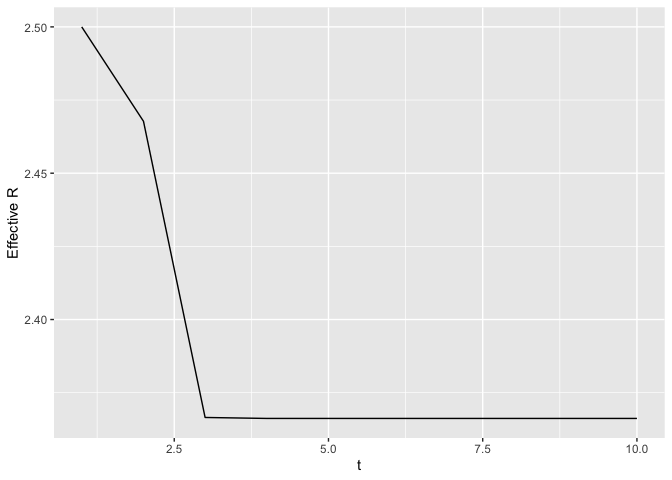
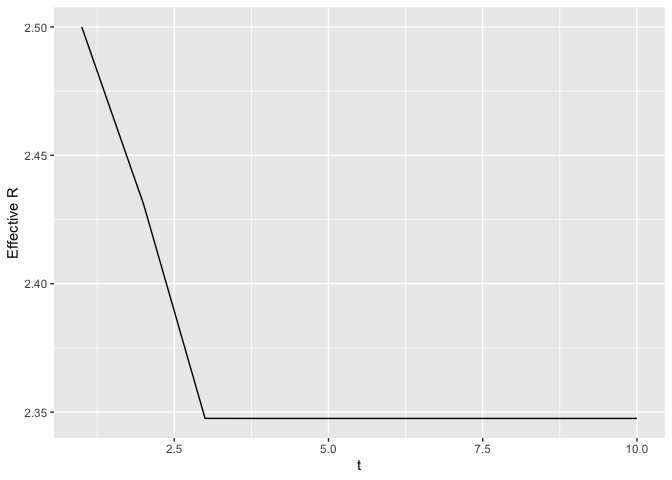
Update readme with new location

diff --git a/README.md b/README.md
@@ -15,7 +15,7 @@ proportions for the test-trace-isolate process.
 You can install the development version of tti from GitHub with:
 
 ``` r
-devtools::install_github("HopkinsIDD/covid_test_isolate/tti")
+devtools::install_github("HopkinsIDD/tti")
 ```
 
 ## Example
@@ -35,9 +35,9 @@ pqc <- get_pqc_equilibrium(init = c(Ps = 0, Pa = 0, Qcps = 0, Qhps = 0,
                              Ca = 0.2))
 pqc
 #>           Ps           Pa         Qcps         Qhps         Qcpa         Qhpa 
-#> 0.0766843185 0.0095855398 0.0077738286 0.0310953145 0.0004858643 0.0019434572 
+#> 7.724739e-02 9.655923e-03 6.475167e-03 2.590067e-02 4.046979e-04 1.618792e-03 
 #>           Qq           Cs           Ca 
-#> 0.0001475544 0.6901588663 0.1821252564
+#> 8.336454e-06 6.952265e-01 1.834625e-01
 ```
 
 From this, we can calculate the proportion quarantined using the
@@ -45,14 +45,14 @@ From this, we can calculate the proportion quarantined using the
 
 ``` r
 get_prop_quarantined(pqc)
-#> [1] 0.04144602
+#> [1] 0.03440766
 ```
 
 We can then calculate the \(R_{effective}\) under this scenario.
 
 ``` r
 get_r_effective(pqc)
-#> [1] 2.366199
+#> [1] 2.347541
 ```
 
 The function `get_proportions_df()` will generate a data frame with four
@@ -81,7 +81,7 @@ d
 #>  7     1          0           2.5  Qq      
 #>  8     1          0.8         2.5  Cs      
 #>  9     1          0.2         2.5  Ca      
-#> 10     2          0.08        2.47 Ps      
+#> 10     2          0.08        2.43 Ps      
 #> # … with 80 more rows
 ```
 
@@ -105,15 +105,15 @@ r
 #>        t r_effective
 #>    <dbl>       <dbl>
 #>  1     1        2.5 
-#>  2     2        2.47
-#>  3     3        2.37
-#>  4     4        2.37
-#>  5     5        2.37
-#>  6     6        2.37
-#>  7     7        2.37
-#>  8     8        2.37
-#>  9     9        2.37
-#> 10    10        2.37
+#>  2     2        2.43
+#>  3     3        2.35
+#>  4     4        2.35
+#>  5     5        2.35
+#>  6     6        2.35
+#>  7     7        2.35
+#>  8     8        2.35
+#>  9     9        2.35
+#> 10    10        2.35
 ```
 
 ``` r
@@ -138,16 +138,16 @@ d
 #> # A tibble: 42 x 18
 #>    r_effective alpha     R kappa   eta    nu  t_ps  t_pa t_qcs t_qca t_qhs t_qha
 #>          <dbl> <dbl> <dbl> <dbl> <dbl> <dbl> <int> <dbl> <dbl> <dbl> <dbl> <dbl>
-#>  1        2.44   0.2   2.5   0.5   0.5     4     1     3     3     3     3     3
-#>  2        2.43   0.2   2.5   0.5   0.5     4     2     3     3     3     3     3
-#>  3        2.43   0.2   2.5   0.5   0.5     4     3     3     3     3     3     3
-#>  4        2.43   0.2   2.5   0.5   0.5     4     4     3     3     3     3     3
-#>  5        2.42   0.2   2.5   0.5   0.5     4     5     3     3     3     3     3
-#>  6        2.42   0.2   2.5   0.5   0.5     4     6     3     3     3     3     3
-#>  7        2.42   0.2   2.5   0.5   0.5     4     7     3     3     3     3     3
-#>  8        2.42   0.2   2.5   0.5   0.5     4     8     3     3     3     3     3
-#>  9        2.42   0.2   2.5   0.5   0.5     4     9     3     3     3     3     3
-#> 10        2.42   0.2   2.5   0.5   0.5     4    10     3     3     3     3     3
+#>  1        2.40   0.2   2.5   0.5   0.5     4     1     3     3     3     3     3
+#>  2        2.41   0.2   2.5   0.5   0.5     4     2     3     3     3     3     3
+#>  3        2.42   0.2   2.5   0.5   0.5     4     3     3     3     3     3     3
+#>  4        2.42   0.2   2.5   0.5   0.5     4     4     3     3     3     3     3
+#>  5        2.43   0.2   2.5   0.5   0.5     4     5     3     3     3     3     3
+#>  6        2.43   0.2   2.5   0.5   0.5     4     6     3     3     3     3     3
+#>  7        2.43   0.2   2.5   0.5   0.5     4     7     3     3     3     3     3
+#>  8        2.43   0.2   2.5   0.5   0.5     4     8     3     3     3     3     3
+#>  9        2.43   0.2   2.5   0.5   0.5     4     9     3     3     3     3     3
+#> 10        2.43   0.2   2.5   0.5   0.5     4    10     3     3     3     3     3
 #> # … with 32 more rows, and 6 more variables: t_q <dbl>, omega_c <dbl>,
 #> #   omega_h <dbl>, omega_q <dbl>, rho_s <dbl>, rho_a <dbl>
 ```
